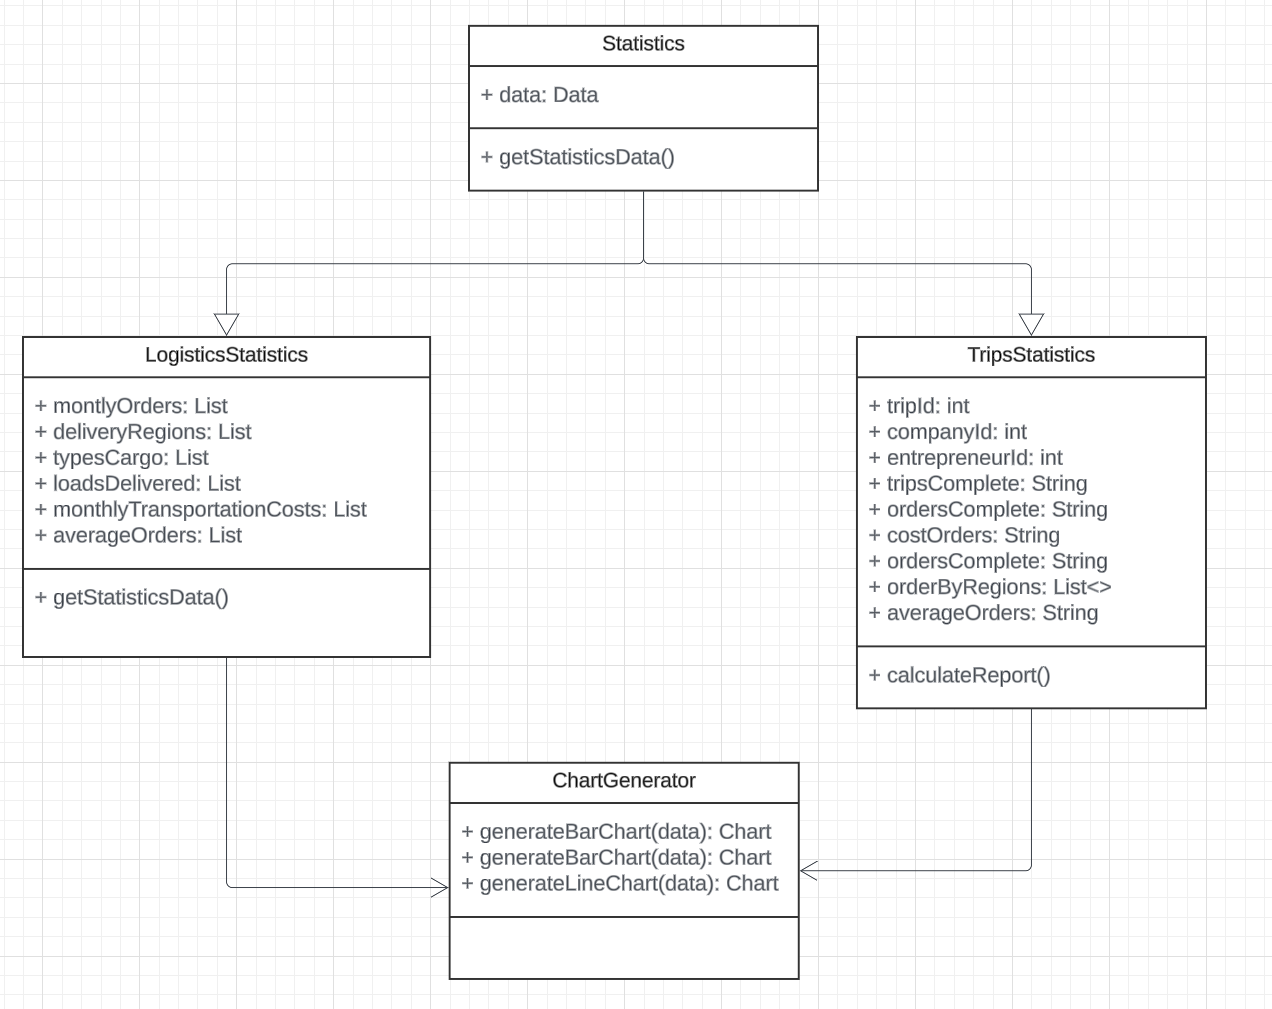
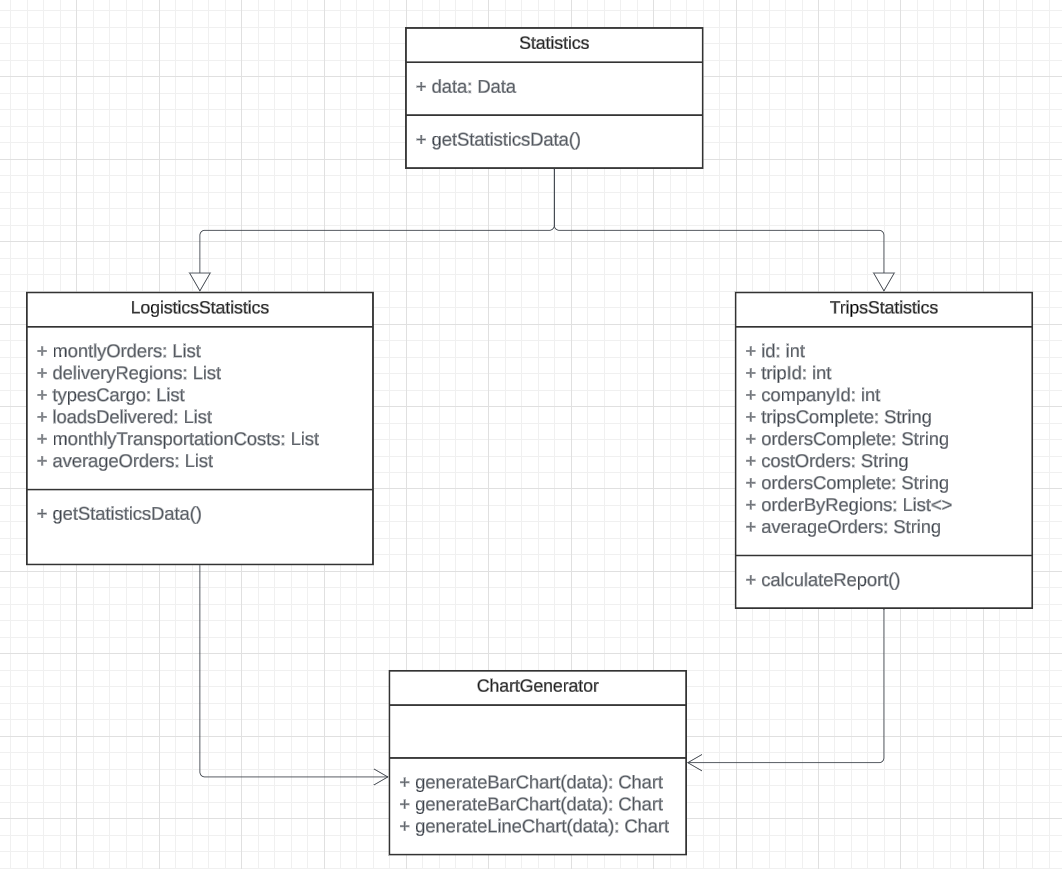
feat: add clases in Class Dictionary

Changed region(s): [[0.1864, 0.0, 0.9944, 0.9942], [0.0, 0.3107, 0.3729, 0.6525]]

diff --git a/README.md b/README.md
@@ -268,12 +268,12 @@ Nuestra visión es convertirnos en referentes globales en la industria de la log
 
 | Descripción de los integrantes del equipo                                                                                                                                                                                                                                                                                                                                                                                            |                 Foto de los integrantes del equipo                 |
 | :----------------------------------------------------------------------------------------------------------------------------------------------------------------------------------------------------------------------------------------------------------------------------------------------------------------------------------------------------------------------------------------------------------------------------------- | :----------------------------------------------------------------: |
-| Mi nombre es Astrid Jimena Boronda Heidinger, soy estudiante de la carrera de Ingeniería de Software, tengo 19 años y me considero una persona dispuesta a ayudar en los trabajos de grupos y atenta a los detalles de los trabajos. Tengo conocimiento en C++, HTML, CSS y Python.                                                                                                                                                 |    ![Integrante_Astrid](assets/chapter-1/Integrante_Astrid.png)    |
-| Mi nombre es Ely Rivaldo Cortez Flores, tengo 18 años y actualmente curso el 6to ciclo. Tengo experiencia en diversos lenguajes de programación, como C#, Go y JavaScript. Me considero una persona responsable y empática, especialmente al trabajar en equipo. Espero contribuir de manera efectiva para sacar adelante el proyecto.                                                                                            |       ![Integrante_Ely](assets/chapter-1/Integrante_Ely.png)       |
+| Mi nombre es Astrid Jimena Boronda Heidinger, soy estudiante de la carrera de Ingeniería de Software, tengo 19 años y me considero una persona dispuesta a ayudar en los trabajos de grupos y atenta a los detalles de los trabajos. Tengo conocimiento en C++, HTML, CSS y Python.                                                                                                                                                  |    ![Integrante_Astrid](assets/chapter-1/Integrante_Astrid.png)    |
+| Mi nombre es Ely Rivaldo Cortez Flores, tengo 18 años y actualmente curso el 6to ciclo. Tengo experiencia en diversos lenguajes de programación, como C#, Go y JavaScript. Me considero una persona responsable y empática, especialmente al trabajar en equipo. Espero contribuir de manera efectiva para sacar adelante el proyecto.                                                                                               |       ![Integrante_Ely](assets/chapter-1/Integrante_Ely.png)       |
 | Mi nombre es Alexandra Belen Ramos Argüelles, soy estudiante de la carrera de Ingeniería de software y actualmente me encuentro cursando el 6to ciclo. Me considero una persona empática, responsable y perseverante. Me adapto muy bien a los trabajos en equipo. Poseo habilidades en programación en lenguajes como C++, C#, Python y Java. Además, tengo conocimientos en HTML, CSS, JavaScript y frameworks como Angular y Vue. | ![Integrante_Alexandra](assets/chapter-1/Integrante_Alexandra.png) |
-| Mi nombre es Renzo Cesar Silva Morales, tengo 19 años y soy estudiante de la carrera de Ingeniería de Software. Me considero una persona atenta y responsable con los trabajos. Poseo conocimientos en programación en lenguajes como C++, C# y Python. Estoy dispuesto y me comprometo a ayudar al equipo en el proyecto.                                                                                                          |     ![Integrante_Renzo](assets/chapter-1/Integrante_Renzo.png)     |
+| Mi nombre es Renzo Cesar Silva Morales, tengo 19 años y soy estudiante de la carrera de Ingeniería de Software. Me considero una persona atenta y responsable con los trabajos. Poseo conocimientos en programación en lenguajes como C++, C# y Python. Estoy dispuesto y me comprometo a ayudar al equipo en el proyecto.                                                                                                           |     ![Integrante_Renzo](assets/chapter-1/Integrante_Renzo.png)     |
 | Mi nombre es Fabrizio Javier Quiroz Zambrano, Me encanta todo lo que tenga que ver con la tecnología y el mundo competitivo de los videojuegos, siempre trato de ser el mejor en lo que hago.                                                                                                                                                                                                                                        |  ![Integrante_Fabrizio](assets/chapter-1/Integrante_Fabrizio.png)  |
-| Mi nombre es Carlos Andres Leon Rioja, tengo 21 y soy estudiante de la carrera de Ingeniería de software. Me gusta todo lo que tenga que ver con la ciencia y tecnología. Tengo conocimientos en los lenguajes de programacion C++, C#, Python, Java, JavaScript, Lua, PHP y Kotlin ademas de conocimientos en HTML, CSS y en los frameworks de Vue, Angular y Flutter. Me considero una persona amable, autodidacta y responsable.    |  ![Integrante_Carlos](assets/chapter-1/Integrante_Carlos.png)  |
+| Mi nombre es Carlos Andres Leon Rioja, tengo 21 y soy estudiante de la carrera de Ingeniería de software. Me gusta todo lo que tenga que ver con la ciencia y tecnología. Tengo conocimientos en los lenguajes de programacion C++, C#, Python, Java, JavaScript, Lua, PHP y Kotlin ademas de conocimientos en HTML, CSS y en los frameworks de Vue, Angular y Flutter. Me considero una persona amable, autodidacta y responsable.  |    ![Integrante_Carlos](assets/chapter-1/Integrante_Carlos.png)    |
 
 <div id='1.2.'><h3> 1.2. Solution Profile</h3></div>
 Nuestra startup ha desarrollado la plataforma CargoSafe, con el objetivo de brindar herramientas innovadoras para el seguimiento, la gestión y la optimización de rutas. La plataforma fue diseñada para mejorar la eficiencia logística y garantizar la seguridad de la carga en todo momento.
@@ -1897,6 +1897,56 @@ Class PaymentCard
 | ----------------- | ----------- | ------------------------------------------- |
 | pay()             | void        | Processes a payment using the payment card. |
 | assignToPayment() | void        | Associates the payment card with a user     |
+
+Class Statistics
+
+| Attribute | Type | Description                                |
+| --------- | ---- | ------------------------------------------ |
+| data      | Data | Stores general data related to statistics. |
+
+| Method              | Return Type | Description                                     |
+| ------------------- | ----------- | ----------------------------------------------- |
+| getStatisticsData() | void        | Method to obtain statistical data of the class. |
+
+Class LogisticsStatistics
+
+| Attribute             | Type         | Description                                                |
+| --------------------- | ------------ | ---------------------------------------------------------- |
+| monthlyOrders         | List<int>    | List of the number of orders placed per month.             |
+| deliveryRegions       | List<String> | List of regions where deliveries are made.                 |
+| typesOfCargo          | List<String> | List of the different types of cargo that are transported. |
+| loadsDelivered        | List<int>    | Number of loads delivered on time or late                  |
+| monthlyTransportCosts | List<double> | Transportation costs per month.                            |
+| averageOrders         | List<int>    | Average number of orders completed per month.              |
+
+| Method              | Return Type | Description                                               |
+| ------------------- | ----------- | --------------------------------------------------------- |
+| getStatisticsData() | void        | Inherited method to obtain statistical data of the class. |
+
+Class TripsStatistics
+
+| Attribute      | Type   | Description                                          |
+| -------------- | ------ | ---------------------------------------------------- |
+| id             | int    | Unique identifier                                    |
+| tripId         | int    | Unique trip identifier.                              |
+| companyId      | int    | Identifier of the company to which the trip belongs. |
+| tripsComplete  | String | Number of trips completed.                           |
+| costOrders     | String | Order costs details.                                 |
+| ordersComplete | String | Details of completed orders.                         |
+| orderByRegions | List<> | Order Details by Region                              |
+| averageOrders  | String | Average orders                                       |
+
+| Method            | Return Type | Description                                           |
+| ----------------- | ----------- | ----------------------------------------------------- |
+| calculateReport() | void        | Method of calculating the report for trip statistics. |
+
+Class ChartGenerator
+
+| Method              | Return Type | Description                                                |
+| ------------------- | ----------- | ---------------------------------------------------------- |
+| generateBarChart()  | Chart       | Method for generating a bar chart from the data provided.  |
+| generatePieChart()  | Chart       | Method for generating a pie chart from the data provided.  |
+| generateLineChart() | Chart       | Method for generating a line chart from the data provided. |
 
 <div id='4.8.'><h3> 4.8. Database Design.</h3></div>
 
